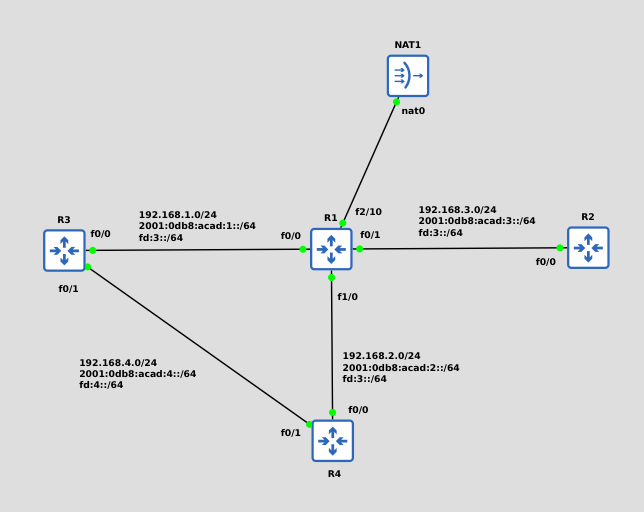
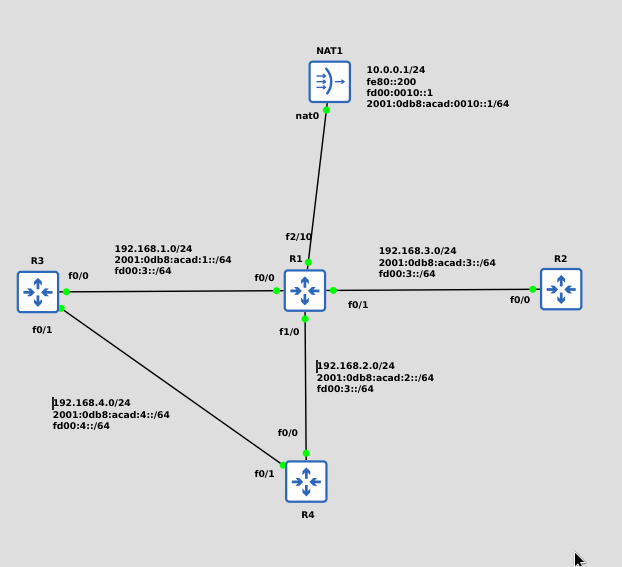
update

diff --git a/Documentation/Cisco/Route_statique_IPv6.md b/Documentation/Cisco/Route_statique_IPv6.md
@@ -1,0 +1,190 @@
+# Cisco - Routage statique IPv4
+
+## Topologie
+
+|Routeur|Interface|Link-local|Unique local|Global unicast|
+|:-:|:-:|:-:|:-:|:-:|
+|R1|f0/0|fe80::1|fd00:0001::1|2001:0db8:acad:0001::1|
+|R1|f1/0|fe80::2|fd00:0002::1|2001:0db8:acad:0002::2|
+|R1|f0/1|fe80::3|fd00:0003::1|2001:0db8:acad:0003::1|
+|R1|f2/10|fe80::4|fd00:0010::1|2001:0db8:acad:0010::1|
+|R2|f0/0|fe80::100|fd00:0003::2|2001:0db8:acad:0003::2|
+|R3|f0/0|fe80::100|fd00:0001::2|2001:0db8:acad:0001::2|
+|R3|f0/1|fe80::1|fd00:0004::2|2001:0db8:acad:0004::2|
+|R4|f0/0|fe80::100|fd00:0002::2|2001:0db8:acad:0002::2|
+|R4|f0/1|fe80::2|fd00:0004::1|2001:0db8:acad:004::1|
+
+![topologie](./illustration/Routage_statique/topologie.png)
+
+***
+
+## Configuration complète
+
+**R1**
+
+```bash
+ipv6 route 2001:0db8:acad:0001::/64 f1/0 fe80::100
+ipv6 route 2001:0db8:acad:0001::/64 f0/0 fe80::100 130
+ipv6 route ::/0 f2/10 fe80::200
+```
+
+**R2**
+
+```bash
+ipv6 route 2001:0db8:acad:0001::/64 f0/0 fe80::3
+ipv6 route 2001:0db8:acad:0002::/64 f0/0 fe80::3
+ipv6 route 2001:0db8:acad:0004::/64 f0/0 fe80::3
+ipv6 route ::/0 f0/0 fe80::3
+```
+
+**R3**
+
+```bash
+ipv6 route 2001:0db8:acad:0003::/64 f0/0 fe80::1
+ipv6 route 2001:0db8:acad:0003::/64 f0/1 fe80::2 130
+ipv6 route 2001:0db8:acad:0002::/64 f0/1 fe80::2
+ipv6 route 2001:0db8:acad:0002::/64 f0/0 fe80::1 130
+ipv6 route ::/0 f0/0 fe80::1
+ipv6 route ::/0 f0/1 fe80::2 130
+```
+
+**R4**
+
+```bash
+ipv6 route 2001:0db8:acad:0001::/64 f0/1 fe80::1
+ipv6 route 2001:0db8:acad:0001::/64 f0/0 fe80::2 130
+ipv6 route 2001:0db8:acad:0003::/64 f0/0 fe80::2
+ipv6 route 2001:0db8:acad:0003::/64 f0/1 fe80::1 130
+ipv6 route ::/0 f0/0 fe80::2
+ipv6 route ::/0 f0/1 fe80::1 130
+```
+***
+
+## Visualisation de la table de routage
+
+Quelques commandes utile pour visualiser le routage statique
+
+show ip route : affiche la route retenue pour atteindre une destination donnée
+
+La table de routage est cependant, beaucoup moins digeste à lire que celle en IPv4
+
+```bash
+R1#sh ipv6 route
+IPv6 Routing Table - 20 entries
+Codes: C - Connected, L - Local, S - Static, R - RIP, B - BGP
+       U - Per-user Static route
+       I1 - ISIS L1, I2 - ISIS L2, IA - ISIS interarea, IS - ISIS summary
+       O - OSPF intra, OI - OSPF inter, OE1 - OSPF ext 1, OE2 - OSPF ext 2
+       ON1 - OSPF NSSA ext 1, ON2 - OSPF NSSA ext 2
+S   ::/0 [1/0]
+     via FE80::200, FastEthernet2/10
+C   FD:1::/64 [0/0]
+     via ::, FastEthernet0/0
+L   FD:1::1/128 [0/0]
+     via ::, FastEthernet0/0
+C   FD:2::/64 [0/0]
+     via ::, FastEthernet1/0
+L   FD:2::1/128 [0/0]
+     via ::, FastEthernet1/0
+C   FD:3::/64 [0/0]
+     via ::, FastEthernet0/1
+L   FD:3::1/128 [0/0]
+     via ::, FastEthernet0/1
+C   FD:10::/64 [0/0]
+     via ::, FastEthernet2/10
+L   FD:10::1/128 [0/0]
+     via ::, FastEthernet2/10
+C   2001:DB8:ACAD:1::/64 [0/0]
+     via ::, FastEthernet0/0
+L   2001:DB8:ACAD:1::1/128 [0/0]
+     via ::, FastEthernet0/0
+C   2001:DB8:ACAD:2::/64 [0/0]
+     via ::, FastEthernet1/0
+L   2001:DB8:ACAD:2::1/128 [0/0]
+     via ::, FastEthernet1/0
+C   2001:DB8:ACAD:3::/64 [0/0]
+     via ::, FastEthernet0/1
+L   2001:DB8:ACAD:3::1/128 [0/0]
+     via ::, FastEthernet0/1
+S   2001:DB8:ACAD:4::/64 [1/0]
+     via FE80::100, FastEthernet1/0
+C   2001:DB8:ACAD:10::/64 [0/0]
+     via ::, FastEthernet2/10
+L   2001:DB8:ACAD:10::1/128 [0/0]
+     via ::, FastEthernet2/10
+L   FE80::/10 [0/0]
+     via ::, Null0
+L   FF00::/8 [0/0]
+     via ::, Null0
+```
+
+show ip route static : affiche seulement les entrées statique
+
+```bash
+R3#sh ipv6 route static 
+IPv6 Routing Table - 13 entries
+Codes: C - Connected, L - Local, S - Static, R - RIP, B - BGP
+       U - Per-user Static route
+       I1 - ISIS L1, I2 - ISIS L2, IA - ISIS interarea, IS - ISIS summary
+       O - OSPF intra, OI - OSPF inter, OE1 - OSPF ext 1, OE2 - OSPF ext 2
+       ON1 - OSPF NSSA ext 1, ON2 - OSPF NSSA ext 2
+S   ::/0 [1/0]
+     via FE80::1, FastEthernet0/0
+S   2001:DB8:ACAD:2::/64 [1/0]
+     via FE80::2, FastEthernet0/1
+S   2001:DB8:ACAD:3::/64 [1/0]
+     via FE80::1, FastEthernet0/0
+```
+
+show ip route `2001:0db8:acad:0001::2` : affiche le chemin emprunté pour atteindre la destination cible
+
+```bash
+R3#show ipv6 route 2001:0db8:acad:0001::2
+IPv6 Routing Table - 13 entries
+Codes: C - Connected, L - Local, S - Static, R - RIP, B - BGP
+       U - Per-user Static route
+       I1 - ISIS L1, I2 - ISIS L2, IA - ISIS interarea, IS - ISIS summary
+       O - OSPF intra, OI - OSPF inter, OE1 - OSPF ext 1, OE2 - OSPF ext 2
+       ON1 - OSPF NSSA ext 1, ON2 - OSPF NSSA ext 2
+L   2001:DB8:ACAD:1::2/128 [0/0]
+     via ::, FastEthernet0/0
+```
+
+## Test connectivité
+
+Contrôle avec ping pour tester la connection
+
+```bash
+R3#ping ipv6 2001:0db8:acad:0003::2      
+
+Type escape sequence to abort.
+Sending 5, 100-byte ICMP Echos to 2001:DB8:ACAD:3::2, timeout is 2 seconds:
+!!!!!
+Success rate is 100 percent (5/5), round-trip min/avg/max = 24/27/28 ms
+```
+
+Vérification du chemin emprunté avec traceroute
+
+```bash
+R3#traceroute ipv6 2001:0db8:acad:0003::2
+
+Type escape sequence to abort.
+Tracing the route to 2001:DB8:ACAD:3::2
+
+  1 2001:DB8:ACAD:1::1 28 msec 28 msec 24 msec
+  2 2001:DB8:ACAD:3::2 56 msec 28 msec 28 msec
+
+```
+
+Test route flottante avec traceroute, le lien FastEthernet0/0 du routeur R3 est mis en down
+
+```bash
+R3#traceroute ipv6 2001:0db8:acad:0003::2
+
+Type escape sequence to abort.
+Tracing the route to 2001:DB8:ACAD:3::2
+
+  1 2001:DB8:ACAD:4::1 28 msec 24 msec 28 msec
+  2 2001:DB8:ACAD:2::1 80 msec 52 msec 40 msec
+  3 2001:DB8:ACAD:3::2 56 msec 40 msec 40 msec
+```

diff --git a/Documentation/Network/Route_statique_IPv6.md b/Documentation/Network/Route_statique_IPv6.md
@@ -1,0 +1,104 @@
+# Route statique IPv6
+
+Le routage statique est une méthode fondamentale de l'administration réseau. Il consiste à ajouter manuellement des routes dans la table de routage d'un routeur ou d'un commutateur de niveau 3 afin de définir explicitement l'acheminement des paquets IPv6
+
+Une route statique peut être de différents type :
+
+- Default
+- Network
+- Floating
+
+Pour que le routage IPv6 soit fonctionnel, il est nécessaire d'activer le routage IPv6
+
+Cisco :
+
+```bash
+Router(config)# ipv6 unicast-routing
+```
+
+Note : Exemple avec commande Cisco IOS
+
+## Topologie
+
+|Routeur|Interface|Link-local|Unique local|Global unicast|
+|:-:|:-:|:-:|:-:|:-:|
+|R1|f0/0|fe80::1|fd00:0001::1|2001:0db8:acad:0001::1|
+|R1|f1/0|fe80::2|fd00:0002::1|2001:0db8:acad:0002::2|
+|R1|f0/1|fe80::3|fd00:0003::1|2001:0db8:acad:0003::1|
+|R1|f2/10|fe80::4|fd00:0010::1|2001:0db8:acad:0010::1|
+|R2|f0/0|fe80::100|fd00:0003::2|2001:0db8:acad:0003::2|
+|R3|f0/0|fe80::100|fd00:0001::2|2001:0db8:acad:0001::2|
+|R3|f0/1|fe80::1|fd00:0004::2|2001:0db8:acad:0004::2|
+|R4|f0/0|fe80::100|fd00:0002::2|2001:0db8:acad:0002::2|
+|R4|f0/1|fe80::2|fd00:0004::1|2001:0db8:acad:004::1|
+
+***
+
+![topologie](./illustration/Routage_statique/topologie.png)
+
+***
+
+## Default Route
+
+Une route par défaut (notée ::/0) est utilisée lorsqu'aucune route plus spécifique ne correspond à la destination du paquet. Elle est souvent appelée « Gateway of Last Resort » (passerelle de dernier recours)
+
+Elle permet notamment de transmettre les paquets vers un routeur amont, généralement utilisé comme passerelle vers Internet
+
+une route par défaut IPv4 vers `0.0.0.0` s’écrit en ipv6 `ipv6 route ::/0 <interface> <link-local_voisin>`
+
+```bash
+R1(config)#ipv6 route ::/0 f2/10 fe80::200
+```
+
+## Network Route
+
+Une Network Route, est une route statique configuré pour atteindre un réseau distant normalement non accessible avec la table de routage de base.
+
+Pour assurer une communication bidirectionnelle entre deux réseaux, il est nécessaire que les routeurs concernés disposent d'une route permettant d'atteindre le réseau distant et d'un chemin de retour
+
+Pour configurer une Network route, il existe plusieurs façon de l'écrire
+
+- interface de sortie
+- interface de sortie + link-local du voisin : 
+- adresse ipv6 du voisin
+
+```bash
+R2(config)#ipv6 route 2001:0db8:acad:0001::/64 fa0/0
+R2(config)#ipv6 route 2001:0db8:acad:0001::/64 fa0/0 fe80::3
+R2(config)#ipv6 route 2001:0db8:acad:0001::/64 2001:db8:acad:3::1
+```
+
+**Interface seule** : 
+
+le chemin est déterminé par l'interface, utile dans une liaison point-to-point
+
+Attention : sur un réseau Ethernet classique, cette syntaxe est généralement déconseillée. Le routeur peut tenter de résoudre l'adresse MAC de chaque destination IPv6 individuellement via Neighbor Discovery
+
+**Interface + link-local** :
+
+le chemin et le voisin sont explicitement identifiés.
+
+une adresse link-local n'est valable que sur le lien local mais plusieurs interfaces peuvent avoir un voisin utilisant exactement la même adresse fe80::2, l'interface permet donc de lever toute ambiguïté.
+
+**IPv6 globale** : 
+
+le prochain saut est déterminé par une recherche récursive dans la table de routage.
+
+fonctionne notamment lorsque :
+
+- Le prochain saut est joignable via une route directement connectée.
+- Le prochain saut est joignable via une autre route présente dans la table de routage.
+
+il faut cependant, que le routeur sache déja comment atteindre cette adresse IPv6
+
+## Floating Route
+
+Une route flottante est une route de secours avec une distance administrative plus élevée que la route principale. Elle est utilisée pour assurer la redondance en cas de panne du lien principal
+
+Une distance administrative supérieure à celle de la route principale doit être définie afin que la route statique ne soit utilisée qu'en solution de secours
+
+Il peut être intéressant de configurer une route statique avec une distance administrative élevée lorsqu'un protocole de routage dynamique fournit déjà une route vers le même réseau, la route statique pourra alors prendre le relais si la route dynamique disparaît
+
+```bash
+R2(config)#ipv6 route 2001:0db8:acad:0001::/64 fa0/0 fe80::3 130
+```
